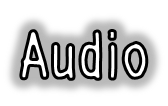
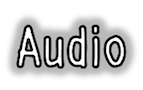
add titles of menus

diff --git a/src/finalproject/FinalProject.java b/src/finalproject/FinalProject.java
@@ -142,7 +142,12 @@ public class FinalProject extends Applet implements Runnable, KeyListener,
         chPantallaDungeon = 'j';
         
         // initialization of screens titles
-        vioTxtAudio = new msf_VioObject(230,20,100,70,"txtAudio.png");
+        vioTxtAudio = new msf_VioObject(249,20,143,90,"txtAudio.png");
+        vioTxtCreditos = new msf_VioObject(220,20,199,90,"txtCreditos.png");
+        vioTxtDificultad = new msf_VioObject(207,20,226,90,"txtDificultad.png");
+        vioTxtInstrucciones = new msf_VioObject(170,20,301,90,"txtInstrucciones.png");
+        vioTxtOpciones = new msf_VioObject(210,20,220,90,"txtOpciones.png");
+        vioTxtSelecciona = new msf_VioObject(40,20,560,90,"txtSeleccionaUnPersonaje.png");        
 //        private Sat_VisualObject vioTxtCreditos; // ViObject for creditos text
 //        private Sat_VisualObject vioTxtDificultad; // ViObject for dificutad text
 //        private Sat_VisualObject vioTxtInstrucciones; // ViObject for instr. text
@@ -946,31 +951,36 @@ public class FinalProject extends Applet implements Runnable, KeyListener,
                 }
                 break;
             case "seleccionarJugador":
+                vioTxtSelecciona.paint(graDibujo, this);
                 // Display buttons
                 for (int i = 0; i < 4; i ++) {
                     arrBtnSeleccionarJugador[i].paint(graDibujo, this);
                 }
                 break;
             case "instruccions":
+                vioTxtInstrucciones.paint(graDibujo, this);
                 // Display buttons
                 btnRegresarInstrucciones.paint(graDibujo, this);
                 break;
             case "credits":
+                vioTxtCreditos.paint(graDibujo, this);
                 // Display buttons
                 btnRegresarCreditos.paint(graDibujo, this);
                 break;
-            case "mapa":                
+            case "mapa":      
                 for (int i = 0; i < 5; i ++) {
                     arrBtnMapa[i].paint(graDibujo, this);
                 }
                 break;
             case "opciones":
+                vioTxtOpciones.paint(graDibujo, this);
                 // Display buttons
                 for (int i = 0; i < 3 ; i ++) {
                     arrBtnOpciones[i].paint(graDibujo, this);
                 }
                 break;
             case "dificultad":
+                vioTxtDificultad.paint(graDibujo, this);
                 // Display buttons
                 for (int i = 0; i < 4 ; i ++) {
                     arrBtnMenuDificultad[i].paint(graDibujo, this);
